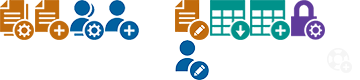
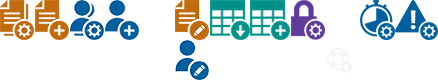
Invalid Restrictions UI

diff --git a/src/app/invalid-restrictions/invalid-restrictions.html b/src/app/invalid-restrictions/invalid-restrictions.html
@@ -1,0 +1,94 @@
+<div ng-include src="'app/header/header.html'"></div>
+<div class="container">
+    <h2 class="cm-title common-color">
+        <img src="assets/images/icon_invalid_restrictions.png" alt="Invalid Restrictions icon" class="cm-icons">Invalid Request Restrictions<br>
+        <div class="cm-title-description">List of Invalid Restrictions for Data Use Limitations and Data Access Requests</div>
+    </h2>
+    <hr class="section-separator">
+    <div class="col-lg-10 col-lg-offset-1 col-md-10 col-md-offset-1 col-sm-12 col-xs-12">
+        <div class="row">
+            <h2 class="col-lg-8 col-md-8 col-sm-8 col-xs-12 pvotes-box-title dul-color">
+                <img src="assets/images/icon_dul_invalid.png" alt="DUL Invalid icon" class="pvotes-icons">Data Use Limitations Invalid Cases
+                <div class="pvotes-box-title-description">List of Invalid Restrictions for Data Use Limitations</div>
+            </h2>
+            <div class="col-lg-4 col-md-4 col-sm-4 col-xs-12 search-reviewed">
+                <div class="search-text">
+                    <i class="glyphicon glyphicon-search dul-color"></i>
+                    <input type="search" class="form-control" placeholder="Enter search term..." ng-model="searchDULcases"/>
+                </div>
+            </div>
+        </div>
+        <div class="jumbotron box-vote-singleresults">
+            <div class="row">
+                <div class="pvotes-box-head">
+                    <div class="col-lg-4 col-md-4 col-sm-4 col-xs-4 pvotes-box-subtitle dul-color">Consent id</div>
+                    <div class="col-lg-8 col-md-8 col-sm-8 col-xs-8 pvotes-box-subtitle dul-color">Invalid Restrictions</div>
+                    <hr class="pvotes-main-separator">
+                </div>
+                <div class="pvotes-box-body">
+                    <div pagination-id="dulInvalidCases">
+                        <hr class="pvotes-separator">
+                        <div class="row pvotes-main-list">
+                            <div class="col-lg-4 col-md-4 col-sm-4 col-xs-4 pvotes-list-id">Id</div>
+                            <div class="col-lg-8 col-md-8 col-sm-8 col-xs-8 pvotes-list-id">
+                                <a href="" ng-click="download()" target="_blank" class="bold hover-color">Download Restrictions</a>
+                            </div>
+                        </div>
+                    </div>
+                    <hr class="pvotes-separator">
+                </div>
+                <div dir-pagination-controls
+                     max-size="5"
+                     direction-links="true"
+                     boundary-links="true"
+                     class="pvotes-pagination"
+                     pagination-id="dulInvalidCases">
+                </div>
+            </div>
+        </div>
+    </div>
+
+    <div class="col-lg-10 col-lg-offset-1 col-md-10 col-md-offset-1 col-sm-12 col-xs-12">
+        <div class="row">
+            <h2 class="col-lg-8 col-md-8 col-sm-8 col-xs-12 pvotes-box-title access-color">
+                <img src="assets/images/icon_access_invalid.png" alt="Access Invalid icon" class="pvotes-icons">Data Access Requests Invalid Cases
+                <div class="pvotes-box-title-description">List of Invalid Restrictions for Data Access Requests</div>
+            </h2>
+            <div class="col-lg-4 col-md-4 col-sm-4 col-xs-12 search-reviewed">
+                <div class="search-text">
+                    <i class="glyphicon glyphicon-search access-color"></i>
+                    <input type="search" class="form-control" placeholder="Enter search term..." ng-model="searchAccessCases"/>
+                </div>
+            </div>
+        </div>
+        <div class="jumbotron box-vote-singleresults">
+            <div class="row">
+                <div class="pvotes-box-head">
+                    <div class="col-lg-4 col-md-4 col-sm-4 col-xs-4 pvotes-box-subtitle access-color">Data Access Request id</div>
+                    <div class="col-lg-8 col-md-8 col-sm-8 col-xs-8 pvotes-box-subtitle access-color">Invalid Restrictions</div>
+                </div>
+                <hr class="pvotes-main-separator">
+            </div>
+            <div class="pvotes-box-body" id="searchTextResults">
+                <div pagination-id="accessInvalidCases">
+                    <hr class="pvotes-separator">
+                    <div class="row pvotes-main-list">
+                        <div class="col-lg-4 col-md-4 col-sm-4 col-xs-4 pvotes-list-id">Id</div>
+                        <div class="col-lg-8 col-md-8 col-sm-8 col-xs-8 pvotes-list-id">
+                            <a href="" target="_blank" class="bold hover-color">Download Restrictions</a>
+                        </div>
+                    </div>
+                </div>
+                <hr class="pvotes-separator">
+            </div>
+            <div dir-pagination-controls
+                 max-size="5"
+                 direction-links="true"
+                 boundary-links="true"
+                 class="pvotes-pagination"
+                 pagination-id="accessInvalidCases">
+            </div>
+        </div>
+    </div>
+</div>
+</div>

diff --git a/src/app/admin-console/admin-console.html b/src/app/admin-console/admin-console.html
@@ -45,14 +45,18 @@
                 <div class="cm-title-description">Store Datasets associated with Data Use Limitations</div>
             </a>
         </div>
+
         <div class="row fsi-row-lg-level fsi-row-md-level">
-            <a href="" ng-click="AdminConsole.setTimeout()" class="col-lg-6 col-md-6 col-sm-12 col-xs-12 console-boxes console-boxes-margin admin-icons">
+            <a href="" ng-click="AdminConsole.setTimeout()" class="col-lg-6 col-md-6 col-sm-12 col-xs-12 console-boxes admin-icons">
                 <div class="all-icons manage-timeout"></div>
                 <div class="admin-icon-subtitles common-color">Set Data Owner election Timeout</div>
                 <div class="cm-title-description">Manage Data Owner election expiration time</div>
             </a>
-            <div class="col-lg-6 col-md-6 col-sm-12 col-xs-12"></div>
-
+            <a href="#/invalid_restrictions" class="col-lg-6 col-md-6 col-sm-12 col-xs-12 console-boxes admin-icons">
+                <div class="all-icons invalid-restrictions"></div>
+                <span class="admin-icon-subtitles common-color">Invalid Request Restrictions</span>
+                <div class="cm-title-description">Show Invalid Restrictions for Data Use Limitations and Data Access Requests</div>
+            </a>
         </div>
     </div>
 </div>

diff --git a/src/app/results-record/access-results-record.controller.js b/src/app/results-record/access-results-record.controller.js
@@ -202,16 +202,16 @@
 
 
             // this data is used to construct structured_ files
-            $scope.sDAR = electionReview.election.useRestriction
-            $scope.sDUL = electionReview.consent.useRestriction
-            $scope.DulFileTitle = "structured_DUL"
-            $scope.DarFileTitle = "structured_DAR"
+            $scope.sDAR = electionReview.election.useRestriction;
+            $scope.sDUL = electionReview.consent.useRestriction;
+            $scope.DulFileTitle = "structured_DUL";
+            $scope.DarFileTitle = "structured_DAR";
 
         }
 
         $scope.download = function download(fileName, text) {
-                          var break_line =  '\r\n \r\n'
-                          text = break_line+ JSON.stringify(text)
+                          var break_line =  '\r\n \r\n';
+                          text = break_line+ JSON.stringify(text);
                           downloadFileService.downloadFile(fileName ,text);
                       };
 

diff --git a/src/app/index.css b/src/app/index.css
@@ -1483,7 +1483,7 @@ a .urgent:hover, a .pending:hover, a .editable:hover, a .enabled:hover {
     display: inline-block;
     width: 35px;
     height: 40px;
-    background: url('../assets/images/admin_icons_.png') no-repeat 0 0;
+    background: url('../assets/images/admin_icons.png') no-repeat 0 0;
     overflow: hidden;
     text-indent: -15000px;
     margin: 7px 3px 0 0;
@@ -1587,6 +1587,15 @@ a .urgent:hover, a .pending:hover, a .editable:hover, a .enabled:hover {
 
 .admin-icons:hover .manage-timeout {
     background-position: -360px -40px !important;
+}
+
+.invalid-restrictions {
+    background-position: -395px 0;
+    width: 43px !important;
+}
+
+.admin-icons:hover .invalid-restrictions {
+    background-position: -395px -40px !important;
 }
 
 .admin-manage-buttons .enabled, .admin-manage-buttons .disabled, .admin-manage-buttons .create, .admin-manage-buttons .cancel {

diff --git a/src/app/index.module.js b/src/app/index.module.js
@@ -3,5 +3,5 @@
 
     angular
         .module('ConsentManagement', ['ConsentConfiguration', 'cmChairConsole', 'cmReview', 'cmReviewResults', 'cmRPApplication',
-            'cmUserConsole', 'cmLogin', 'cmAuthenticate', 'cmSummaryVotes', 'cmAdminConsole', 'cmAdminManage', 'cmHeader', 'cmAdminUsers', 'cmReviewedCases', 'cmFooter', 'cmDatasetCatalog', 'cmResultsRecord', 'cmDataset', 'cmResearcherConsole', 'cmHelpMe', 'cmEmail', 'cmStatFiles', 'cmDataOwnerReview', 'cmDataOwnerConsole']);
+            'cmUserConsole', 'cmLogin', 'cmAuthenticate', 'cmSummaryVotes', 'cmAdminConsole', 'cmAdminManage', 'cmHeader', 'cmAdminUsers', 'cmReviewedCases', 'cmFooter', 'cmDatasetCatalog', 'cmResultsRecord', 'cmDataset', 'cmResearcherConsole', 'cmHelpMe', 'cmEmail', 'cmStatFiles', 'cmDataOwnerReview', 'cmDataOwnerConsole', 'cmInvalidRestrictions']);
 })();

diff --git a/src/app/invalid-restrictions/invalid-restrictions.route.js b/src/app/invalid-restrictions/invalid-restrictions.route.js
@@ -1,0 +1,23 @@
+(function () {
+    'use strict';
+
+    angular
+        .module('cmInvalidRestrictions')
+        .config(routeConfig);
+
+    /* ngInject */
+    function routeConfig($stateProvider, USER_ROLES) {
+        $stateProvider
+            .state('invalid_restrictions', {
+                name: 'invalid_restrictions',
+                url: '/invalid_restrictions',
+                templateUrl: 'app/invalid-restrictions/invalid-restrictions.html',
+                controller: 'InvalidRestrictions',
+                controllerAs: 'InvalidRestrictions',
+                data: {
+                    authorizedRoles: [ USER_ROLES.admin]
+                }
+            });
+    }
+
+})();

diff --git a/src/app/invalid-restrictions/invalid-restrictions.controller.js b/src/app/invalid-restrictions/invalid-restrictions.controller.js
@@ -1,0 +1,20 @@
+(function () {
+    'use strict';
+
+    angular.module('cmInvalidRestrictions')
+        .controller('InvalidRestrictions', InvalidRestrictions);
+
+    function InvalidRestrictions($scope, downloadFileService) {
+
+        $scope.DulFileTitle = "structured_DUL";
+        $scope.DarFileTitle = "structured_DAR";
+        $scope.download = function download(fileName, text) {
+            var break_line =  '\r\n \r\n';
+            text = break_line+ JSON.stringify(text);
+            downloadFileService.downloadFile(fileName ,text);
+        };
+
+    }
+
+
+})();

diff --git a/src/app/invalid-restrictions/invalid-restrictions.spec.js b/src/app/invalid-restrictions/invalid-restrictions.spec.js
@@ -1,0 +1,19 @@
+(function () {
+    'use strict';
+
+    describe('cmInvalidRestrictions module', function () {
+
+        beforeEach(module('cmInvalidRestrictions'));
+
+        describe('InvalidRestrictions controller', function () {
+
+            it('should ....', inject(function ($controller) {
+                //spec body
+                var invalid_restrictionsCtrl = $controller('InvalidRestrictions');
+                expect(invalid_restrictionsCtrl).toBeDefined();
+            }));
+
+        });
+    });
+
+})();

diff --git a/src/app/invalid-restrictions/invalid-restrictions.module.js b/src/app/invalid-restrictions/invalid-restrictions.module.js
@@ -1,0 +1,7 @@
+(function () {
+    'use strict';
+
+    angular
+        .module('cmInvalidRestrictions', ['ui.router', 'ui.bootstrap', 'cmUserRoles']);
+
+})();
